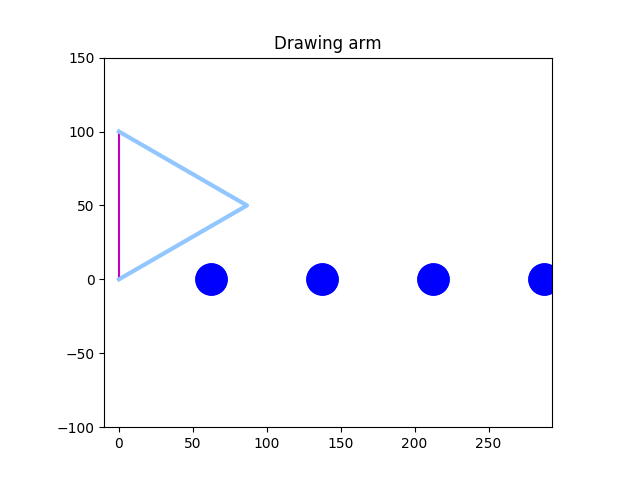
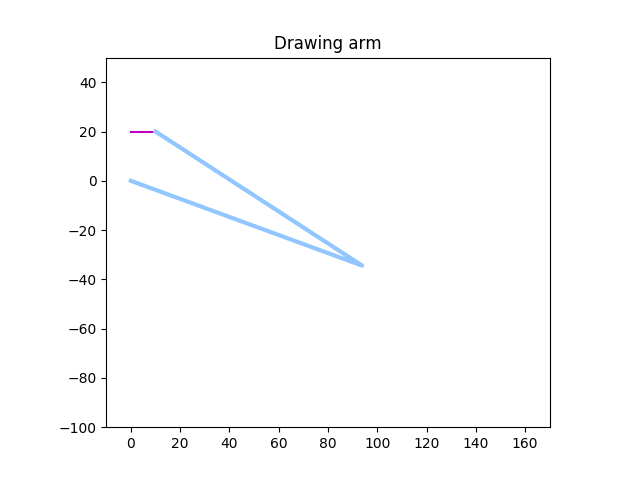
Pushing working version

diff --git a/arm.html b/arm.html
@@ -184,39 +184,39 @@ input[type=range].anim-slider {
 </style>
 
 <div class="animation">
-  <img id="_anim_img6b17c418b49f45da87198dd5655bdde9">
+  <img id="_anim_img230354e617e74eb9a850168fc8633df3">
   <div class="anim-controls">
-    <input id="_anim_slider6b17c418b49f45da87198dd5655bdde9" type="range" class="anim-slider"
+    <input id="_anim_slider230354e617e74eb9a850168fc8633df3" type="range" class="anim-slider"
            name="points" min="0" max="1" step="1" value="0"
-           oninput="anim6b17c418b49f45da87198dd5655bdde9.set_frame(parseInt(this.value));"></input>
+           oninput="anim230354e617e74eb9a850168fc8633df3.set_frame(parseInt(this.value));"></input>
     <div class="anim-buttons">
-      <button onclick="anim6b17c418b49f45da87198dd5655bdde9.slower()"><i class="fa fa-minus"></i></button>
-      <button onclick="anim6b17c418b49f45da87198dd5655bdde9.first_frame()"><i class="fa fa-fast-backward">
+      <button onclick="anim230354e617e74eb9a850168fc8633df3.slower()"><i class="fa fa-minus"></i></button>
+      <button onclick="anim230354e617e74eb9a850168fc8633df3.first_frame()"><i class="fa fa-fast-backward">
           </i></button>
-      <button onclick="anim6b17c418b49f45da87198dd5655bdde9.previous_frame()">
+      <button onclick="anim230354e617e74eb9a850168fc8633df3.previous_frame()">
           <i class="fa fa-step-backward"></i></button>
-      <button onclick="anim6b17c418b49f45da87198dd5655bdde9.reverse_animation()">
+      <button onclick="anim230354e617e74eb9a850168fc8633df3.reverse_animation()">
           <i class="fa fa-play fa-flip-horizontal"></i></button>
-      <button onclick="anim6b17c418b49f45da87198dd5655bdde9.pause_animation()"><i class="fa fa-pause">
+      <button onclick="anim230354e617e74eb9a850168fc8633df3.pause_animation()"><i class="fa fa-pause">
           </i></button>
-      <button onclick="anim6b17c418b49f45da87198dd5655bdde9.play_animation()"><i class="fa fa-play"></i>
+      <button onclick="anim230354e617e74eb9a850168fc8633df3.play_animation()"><i class="fa fa-play"></i>
           </button>
-      <button onclick="anim6b17c418b49f45da87198dd5655bdde9.next_frame()"><i class="fa fa-step-forward">
+      <button onclick="anim230354e617e74eb9a850168fc8633df3.next_frame()"><i class="fa fa-step-forward">
           </i></button>
-      <button onclick="anim6b17c418b49f45da87198dd5655bdde9.last_frame()"><i class="fa fa-fast-forward">
+      <button onclick="anim230354e617e74eb9a850168fc8633df3.last_frame()"><i class="fa fa-fast-forward">
           </i></button>
-      <button onclick="anim6b17c418b49f45da87198dd5655bdde9.faster()"><i class="fa fa-plus"></i></button>
+      <button onclick="anim230354e617e74eb9a850168fc8633df3.faster()"><i class="fa fa-plus"></i></button>
     </div>
-    <form action="#n" name="_anim_loop_select6b17c418b49f45da87198dd5655bdde9" class="anim-state">
-      <input type="radio" name="state" value="once" id="_anim_radio1_6b17c418b49f45da87198dd5655bdde9"
+    <form action="#n" name="_anim_loop_select230354e617e74eb9a850168fc8633df3" class="anim-state">
+      <input type="radio" name="state" value="once" id="_anim_radio1_230354e617e74eb9a850168fc8633df3"
              >
-      <label for="_anim_radio1_6b17c418b49f45da87198dd5655bdde9">Once</label>
-      <input type="radio" name="state" value="loop" id="_anim_radio2_6b17c418b49f45da87198dd5655bdde9"
+      <label for="_anim_radio1_230354e617e74eb9a850168fc8633df3">Once</label>
+      <input type="radio" name="state" value="loop" id="_anim_radio2_230354e617e74eb9a850168fc8633df3"
              checked>
-      <label for="_anim_radio2_6b17c418b49f45da87198dd5655bdde9">Loop</label>
-      <input type="radio" name="state" value="reflect" id="_anim_radio3_6b17c418b49f45da87198dd5655bdde9"
+      <label for="_anim_radio2_230354e617e74eb9a850168fc8633df3">Loop</label>
+      <input type="radio" name="state" value="reflect" id="_anim_radio3_230354e617e74eb9a850168fc8633df3"
              >
-      <label for="_anim_radio3_6b17c418b49f45da87198dd5655bdde9">Reflect</label>
+      <label for="_anim_radio3_230354e617e74eb9a850168fc8633df3">Reflect</label>
     </form>
   </div>
 </div>
@@ -226,12 +226,12 @@ input[type=range].anim-slider {
   /* Instantiate the Animation class. */
   /* The IDs given should match those used in the template above. */
   (function() {
-    var img_id = "_anim_img6b17c418b49f45da87198dd5655bdde9";
-    var slider_id = "_anim_slider6b17c418b49f45da87198dd5655bdde9";
-    var loop_select_id = "_anim_loop_select6b17c418b49f45da87198dd5655bdde9";
-    var frames = new Array(17);
+    var img_id = "_anim_img230354e617e74eb9a850168fc8633df3";
+    var slider_id = "_anim_slider230354e617e74eb9a850168fc8633df3";
+    var loop_select_id = "_anim_loop_select230354e617e74eb9a850168fc8633df3";
+    var frames = new Array(39);
     
-  for (var i=0; i<17; i++){
+  for (var i=0; i<39; i++){
     frames[i] = "arm_frames/frame" + ("0000000" + i).slice(-7) +
                 ".png";
   }
@@ -240,7 +240,7 @@ input[type=range].anim-slider {
     /* set a timeout to make sure all the above elements are created before
        the object is initialized. */
     setTimeout(function() {
-        anim6b17c418b49f45da87198dd5655bdde9 = new Animation(frames, img_id, slider_id, 100.0,
+        anim230354e617e74eb9a850168fc8633df3 = new Animation(frames, img_id, slider_id, 100.0,
                                  loop_select_id);
     }, 0);
   })()

diff --git a/twilio.py b/twilio.py
@@ -86,26 +86,28 @@ letter_coords = {
 all_cords = []
 off_set = 10
 ### get list of x,y cords for the letter here
-def get_coords(sentence, off_set=10):
+def get_coords(sentence, pixel_width=10):
     # x start position of the current letter being executed
     for char_num, letter in enumerate(sentence.upper()):
+        print(letter)
         ### get list of x,y cords for the letter here
         coords = letter_coords[letter]
 
-        off_set_coords = []
+        # off_set_coords = []
 
         for x, y in coords:
-            x = x * off_set + char_num * off_set
-            y = y * off_set + char_num * off_set
+            x = x * pixel_width + char_num * pixel_width * 2
+            y = y * pixel_width
             # off_set_coords.append([x,y])
             all_cords.append([x,y])
 
+            print([x,y])
         # all_cords.append(off_set_coords)
-
-        print(off_set_coords)
 
 
 get_coords(sentence, 10)
+
+print(all_cords)
 
 
 ### Kasia code here ###
@@ -118,12 +120,12 @@ plt.style.use('seaborn-pastel')
 
 
 angleList = []
-letters = [(0,1),(0,100),(50,100),(50,50),(0,50),(50,50),(50,0),(75,0),(75,100),(125,100),(125,50),(75,50),(125,50),(125,0), (135,135)]
-# letters =
+# letters = [(0,0),(0,20),(10,20),(10,10),(0,10),(10,10),(10,0),(15,0),(15,20),(25,20),(25,10),(15,10),(25,10),(25,0)]
+letters = all_cords
 numFrames = len(letters)
 
 fig = plt.figure()
-ax = plt.axes(xlim=(-10, (numFrames/7)*75), ylim=(-100, 150))
+ax = plt.axes(xlim=(-10, 170), ylim=(-100, 50))
 ax.set_title('Drawing arm')
 ax.set_aspect('equal', 'box')
 line, = ax.plot([], [], lw=3)
@@ -215,13 +217,14 @@ def plotDot():
     xdot = []
     ydot = []
 
-    rangeVal = int(numFrames/7)*75
+   # rangeVal = int(numFrames/7)*75
 
     for n in range (10):
-        xdot.append((n+1)*75 - 12.5)
+        xdot.append(n*15 -2.5)
         ydot.append(0)
 
-    plt.scatter(xdot, ydot, c='w', s=900, zorder = 2)
+    plt.scatter(xdot, ydot, c='w', s=45, zorder = 2)
+
 
 anim = FuncAnimation(fig, animate2, init_func=init,
                      frames =numFrames, interval=100, blit=True)
